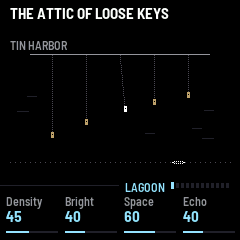
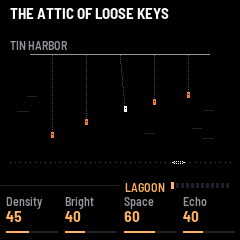
画面: 声の波紋を水面に寝かせ、世界の色を全ページに通す
波紋: SHALLOWS と MOSS の声の輪、中央の息の輪を、捧げものの輪と同じ平たさの楕円に
（draw_oval）。FOUNTAIN の声の輪は点線の灰色から実線の世界の色に。実線で色つきは音楽、
点線で白は手が与えたもの。
色: パレットの上二段（値、曲線、開いているページ）を世界の色にする（tint_step）。
ラグーンの絵だけでなく、どのページのノブの値や棒にも付く。色は音楽に従う: 渡りの間は
二つの世界の中間、着いてから残り。そのために音楽がいまいる世界を en_here で出す。
七つの色は実機の画面で見分けられる強さに（淡い色はどれも白く見えた）。STAIR だけ無彩色。
tests/tint.txt を追加。説明書と README に一文ずつ、説明書の画像を撮り直し。

diff --git a/app/app.c b/app/app.c
@@ -681,6 +681,38 @@ void app_input_only(void)
     input();
 }
 
+/* the world's colour: the palette's two brightest steps (C_AMB, C_HI: the values, the curves, the page shown) are
+ * the world's own on every page; the three greys and the white are every world's. It follows
+ * the music, not the knob: through a crossing halfway between the world it is in and the one chosen, and the rest of
+ * the way as it arrives (a second or so each, never at once) */
+static const uint8_t TINT[EN_NWORLD][6] = {      /* each world's two accents (r, g, b): the mid, the high. Far enough
+                                                  * apart to tell on the device's screen, where pale tints all look white */
+    {60, 180, 235, 150, 225, 255},               /* the palette's own cyan */
+    {125, 105, 240, 180, 165, 255},              /* violet */
+    {205, 185, 110, 245, 232, 170},              /* paper, yellowed */
+    {30, 200, 155, 115, 245, 205},               /* a green-blue */
+    {120, 200, 70, 185, 240, 125},               /* moss */
+    {235, 125, 50, 255, 178, 100},               /* dusty, warm: amber */
+    {150, 158, 178, 212, 218, 232},              /* cold, grey: no colour */
+};
+
+static void tint_step(uint32_t now)
+{
+    static float is[6];
+    static uint32_t at;
+    static uint8_t begun;
+    int here = en_here % EN_NWORLD, to = en_crossing ? set.world % EN_NWORLD : here, i;
+    float k = begun ? fm_clampf((float)(now - at) * (1.0f / 1100.0f), 0.0f, 1.0f) : 1.0f;
+    for (i = 0; i < 6; i++) {
+        float want = 0.5f * ((float)TINT[here][i] + (float)TINT[to][i]), d = want - is[i];
+        is[i] = d > -1.0f && d < 1.0f ? want : is[i] + k * d;   /* (the last step: there) */
+    }
+    at = now;
+    begun = 1;
+    pal[3] = RGB((int)is[0], (int)is[1], (int)is[2]);
+    pal[4] = RGB((int)is[3], (int)is[4], (int)is[5]);
+}
+
 /* a ring: the midpoint circle, clipped by the canvas */
 static void draw_ring(int32_t cx, int32_t cy, int32_t r, uint16_t c)
 {
@@ -694,6 +726,30 @@ static void draw_ring(int32_t cx, int32_t cy, int32_t r, uint16_t c)
         cv_pset(cx - y, cy - x, c);
         cv_pset(cx + y, cy - x, c);
         cv_pset(cx + x, cy - y, c);
+        y++;
+        if (err < 0) {
+            err += 2 * y + 1;
+        } else {
+            x--;
+            err += 2 * (y - x) + 1;
+        }
+    }
+}
+
+/* a ring lying on the water: the same, three tenths as tall (as the offerings' rings: draw_ellipse, dotted) */
+static void draw_oval(int32_t cx, int32_t cy, int32_t rx, uint16_t c)
+{
+    int32_t x = rx, y = 0, err = 1 - rx;
+    while (x >= y) {
+        int32_t fx = x * 77 >> 8, fy = y * 77 >> 8;
+        cv_pset(cx + x, cy + fy, c);
+        cv_pset(cx + y, cy + fx, c);
+        cv_pset(cx - y, cy + fx, c);
+        cv_pset(cx - x, cy + fy, c);
+        cv_pset(cx - x, cy - fy, c);
+        cv_pset(cx - y, cy - fx, c);
+        cv_pset(cx + y, cy - fx, c);
+        cv_pset(cx + x, cy - fy, c);
         y++;
         if (err < 0) {
             err += 2 * y + 1;
@@ -773,7 +829,7 @@ static void draw_ellipse(int32_t cx, int32_t cy, int32_t rx, uint16_t c)
     }
 }
 
-/* the lagoon, as each world has it: its own ground and its own tint (a little off the cyan), under the same rule.
+/* the lagoon, as each world has it: its own ground, in its own colour (tint_step), under the same rule.
  * The water's line (where there is water) is the hidden state, slowly: higher in light, rougher when folded, its dots
  * closer when it bleeds, its waves slower in the margin. Each sounding voice a ripple, wider as it fades; a slow
  * breath at the centre. An offering: a drop falls at once, and rings spread where it lands.
@@ -784,16 +840,6 @@ static void draw_ellipse(int32_t cx, int32_t cy, int32_t rx, uint16_t c)
  *   MOSS      the water thick, furred; four buoys
  *   ATTIC     no water: a beam, five threads, a key on each, swinging when struck; a draught after a gust
  *   STAIR     a stair by the walk's notes, the step sounding lit; its shadow beside it, under or over */
-static const uint8_t TINT[EN_NWORLD][6] = {      /* each world's two accents (r, g, b): the mid, the high */
-    {60, 180, 235, 150, 225, 255},               /* the palette's own cyan */
-    {100, 150, 240, 180, 200, 255},              /* a little violet */
-    {185, 180, 160, 232, 226, 210},              /* paper */
-    {50, 190, 190, 140, 235, 228},               /* a green-blue */
-    {80, 185, 150, 165, 232, 200},               /* toward moss */
-    {190, 160, 110, 232, 212, 172},              /* dusty, warm */
-    {150, 168, 186, 214, 224, 234},              /* cold, grey */
-};
-
 static uint32_t mix32(uint32_t h)
 {
     h ^= h >> 16;
@@ -811,8 +857,7 @@ static void dotted_hline(int32_t x0, int32_t x1, int32_t y, int32_t gap, uint16_
 static void draw_lagoon(uint32_t now)
 {
     uint32_t i;
-    int w = set.world % EN_NWORLD;
-    uint16_t tm = RGB(TINT[w][0], TINT[w][1], TINT[w][2]), th = RGB(TINT[w][3], TINT[w][4], TINT[w][5]);
+    uint16_t tm = C_AMB, th = C_HI;              /* the world's two accents */
     float light = en_state[S_LIGHT], bleed = en_state[S_BLEED], fold = en_state[S_FOLD], margin = en_state[S_MARGIN];
     float b = 0.5f + 0.5f * fm_sinf(en_cycle * FM_TWO_PI), t = (float)now * 0.001f;
     float amp = 1.5f + 3.5f * (fold + 1.0f), speed = 0.9f - 0.6f * margin;
@@ -884,7 +929,7 @@ static void draw_lagoon(uint32_t now)
                 cv_pset(120 - (int32_t)(fm_cosf(a) * 70.0f), hy + 4 + (int32_t)(fm_sinf(a) * 24.0f), C_LINE);
             }
         if (en_alg != EN_ALG_DRONE)
-            draw_ring(120, hy, 3 + (int32_t)(4.0f * b), C_LINE);   /* the breath */
+            draw_oval(120, hy, 5 + (int32_t)(9.0f * b), C_LINE);   /* the breath */
     }
 
     /* the voices */
@@ -913,13 +958,13 @@ static void draw_lagoon(uint32_t now)
         }
         if (en_alg == EN_ALG_FOUNTAIN) {         /* the fountain: small rings where its drops fall */
             if (x > wx0 && x < wx1)
-                draw_ellipse(x, hy, 3 + (int32_t)((1.0f - g) * 18.0f), g > 0.3f ? C_GRAY : C_DIM);
+                draw_oval(x, hy, 3 + (int32_t)((1.0f - g) * 18.0f), g > 0.3f ? tm : C_DIM);
             continue;
         }
-        r = 4 + (int32_t)((1.0f - g) * 56.0f);
-        draw_ring(x, hy, r, g > 0.5f ? th : g > 0.2f ? tm : C_DIM);
+        r = 4 + (int32_t)((1.0f - g) * 56.0f);   /* a ripple on the water, lying as the water lies */
+        draw_oval(x, hy, r, g > 0.5f ? th : g > 0.2f ? tm : C_DIM);
         if (g > 0.6f)
-            draw_ring(x, hy, r / 2, tm);
+            draw_oval(x, hy, r / 2, tm);
     }
 
     /* what each world holds */
@@ -1413,6 +1458,7 @@ static void draw_knobs(uint32_t now)
 static void draw(void)
 {
     uint32_t now = plat_ms();
+    tint_step(now);
     draw_header(now);
     if (ui.page == PG_LAGOON)
         draw_lagoon(now);
@@ -1650,6 +1696,12 @@ int app_expect(const char *what, int *got)
         *got = en_held;
     else if (!strcmp(what, "world"))
         *got = set.world;
+    else if (!strcmp(what, "here"))              /* the world the music is in (a crossing: not yet the chosen) */
+        *got = en_here;
+    else if (!strcmp(what, "tint"))              /* the screen's colour now (the values', as the screen has it) */
+        *got = C_HI;
+    else if (!strcmp(what, "tintr"))             /* its red alone, 0..31 */
+        *got = C_HI >> 11;
     else if (!strcmp(what, "kit"))
         *got = set.kit;
     else if (!strcmp(what, "offers"))            /* offerings since boot (presses) */

diff --git a/app/dsp/lagoon.h b/app/dsp/lagoon.h
@@ -64,6 +64,7 @@ const char *en_world_name(int world);
 void en_set_world(int world);
 void en_set_world_now(int world);       /* there at once, no crossing (at boot) */
 void en_dusk(int amount);              /* sleep's last minute: 0..100, sparser, quieter, a little slower */
+extern volatile uint8_t en_here;        /* the world the music is in now (a crossing under way: not yet the chosen) */
 extern volatile uint8_t en_crossing;    /* a crossing to the chosen world under way (the music finishing its phrase) */           /* there at once; only the state's lean glides */  /* key 0..26 (F3..G5); strength 100 a press, less while it is held */
 extern volatile float en_splash;               /* a splash (a drop meeting the water), 0..1, gone in a second or two */
 extern volatile uint8_t en_arp_beat;           /* a count of the chords' notes (the screen's tick) */

diff --git a/app/dsp/lagoon.c b/app/dsp/lagoon.c
@@ -1373,9 +1373,11 @@ static void gen_event(void)
 }
 
 static void pulse_begin(void);
+volatile uint8_t en_here;                        /* (UI) the world the music is in */
 static void world_begin(void)                    /* a new world, at once: its root, its beat, its algorithm */
 {
     const world_t *w = &WORLDS[world];
+    en_here = world;
     root = w->roots[0];
     root_due = ROOT_STAY[world] * (0.5f + 0.5f * frand());
     beat_len = w->beat * tempo * EN_SR;

diff --git a/README.md b/README.md
@@ -28,7 +28,7 @@ it: back it up first.
 | SEL | held: K1..K4 are the lagoon's four from any page (on the lagoon itself, in finer steps) |
 | SEQ | the memory: what the music holds (a motif, a chord, a line, a figure: as the world has it); K1..K4 Repeat (the times before it may change), Change (how much), Length, Memory (how often an older one comes back). Held: hold it (nothing new taken up, the scale kept), held again: let go |
 | PRESETS | the kit: ten sets of three voices (lead, answer, low); edits are kept per kit |
-| ALGORITHM | the world: seven places that exist nowhere, each its own way of making music (never the knobs nor the kit). Chosen at once, reached by a crossing: the music finishes its phrase where it is (a few seconds; the header says CROSSING, the name breathing, a wake running under it), the chords and the pulse fading, then a breath, and the new world opens |
+| ALGORITHM | the world: seven places that exist nowhere, each its own way of making music (never the knobs nor the kit). Chosen at once, reached by a crossing: the music finishes its phrase where it is (a few seconds; the header says CROSSING, the name breathing, a wake running under it, the colour halfway there), the chords and the pulse fading, then a breath, and the new world opens |
 | K1..K4 | the lagoon: Density, Bright, Space, Echo. A voice: Color, Bright, Decay, Soft |
 | PLAY | plays or rests. It opens: sparse at first, full in some 25 s, the chords and the pulse coming in a few bars later. A rest is at once (the echoes and the plate ring on) |
 | SAVE | keeps all of it (lit when something is not saved) |
@@ -42,7 +42,7 @@ Some voices have breath (air beside the tone, a rough modulation, a pitch that w
 (a little in SLOW BREATH and HAZE ARCHIVE, much in DUST PIPES, FOG LANTERN and CHALK GARDEN), scaled by Air (FX, again); a voice's
 page shows it.
 
-Worlds, each its own way of making music and its own scales, a darker to a brighter (heard at once; the screen changes with it):
+Worlds, each its own way of making music and its own scales, a darker to a brighter (heard at once; the screen changes with it, and its colour):
 SHALLOWS OF MEMORY (a motif written in a note or two each pass until whole, heard whole, then faded a note or two each pass until nothing is left; a silence, another), BEHIND THE HORIZON (a drone: chords that swell and fall
 back, a low tone under them, now and then one note of a melody), THE UNREAD LETTER (single points, far apart: a few
 pitches, the letter's words, each a leap from the last, at uneven distances; a long silence after each line; in the

diff --git a/app/docs/MANUAL.md b/app/docs/MANUAL.md
@@ -258,7 +258,7 @@ With Drift at 0 nothing stirs. Offer sets how great the stir is.
 ### The worlds
 
 ALGORITHM picks the world. Each is a place that exists nowhere, and each makes music in its own way. They never
-touch the knobs or the kit. The screen changes with the world. Each has its own scales too, from a darker to a
+touch the knobs or the kit. The screen changes with the world, and so does its colour. Each has its own scales too, from a darker to a
 brighter, and the hidden state chooses among them.
 
 - SHALLOWS OF MEMORY: a motif is written in a note or two each pass, until it is whole. It is heard whole a few times:
@@ -309,8 +309,8 @@ Music of this kind should not start or stop with a click.
 
 When you pick a new world, the screen changes at once, but the music does not. It finishes its phrase where it is,
 which takes a few seconds. The rule over the knobs and the header both say CROSSING, the name of the world breathes,
-and a small wake runs under the header. The chords and the pulse fade. Then a breath, and the new world opens,
-sparse, and fills out over some seconds.
+and a small wake runs under the header. The colour goes halfway to the new world's. The chords and the pulse fade.
+Then a breath, and the new world opens, sparse, and fills out over some seconds.
 
 ![A crossing: THE FOUNTAIN AFTER CLOSING in the header with CROSSING at its right, a wake under it, and wide rings on the water](img/screen-crossing.png "A crossing to THE FOUNTAIN AFTER CLOSING")
 
